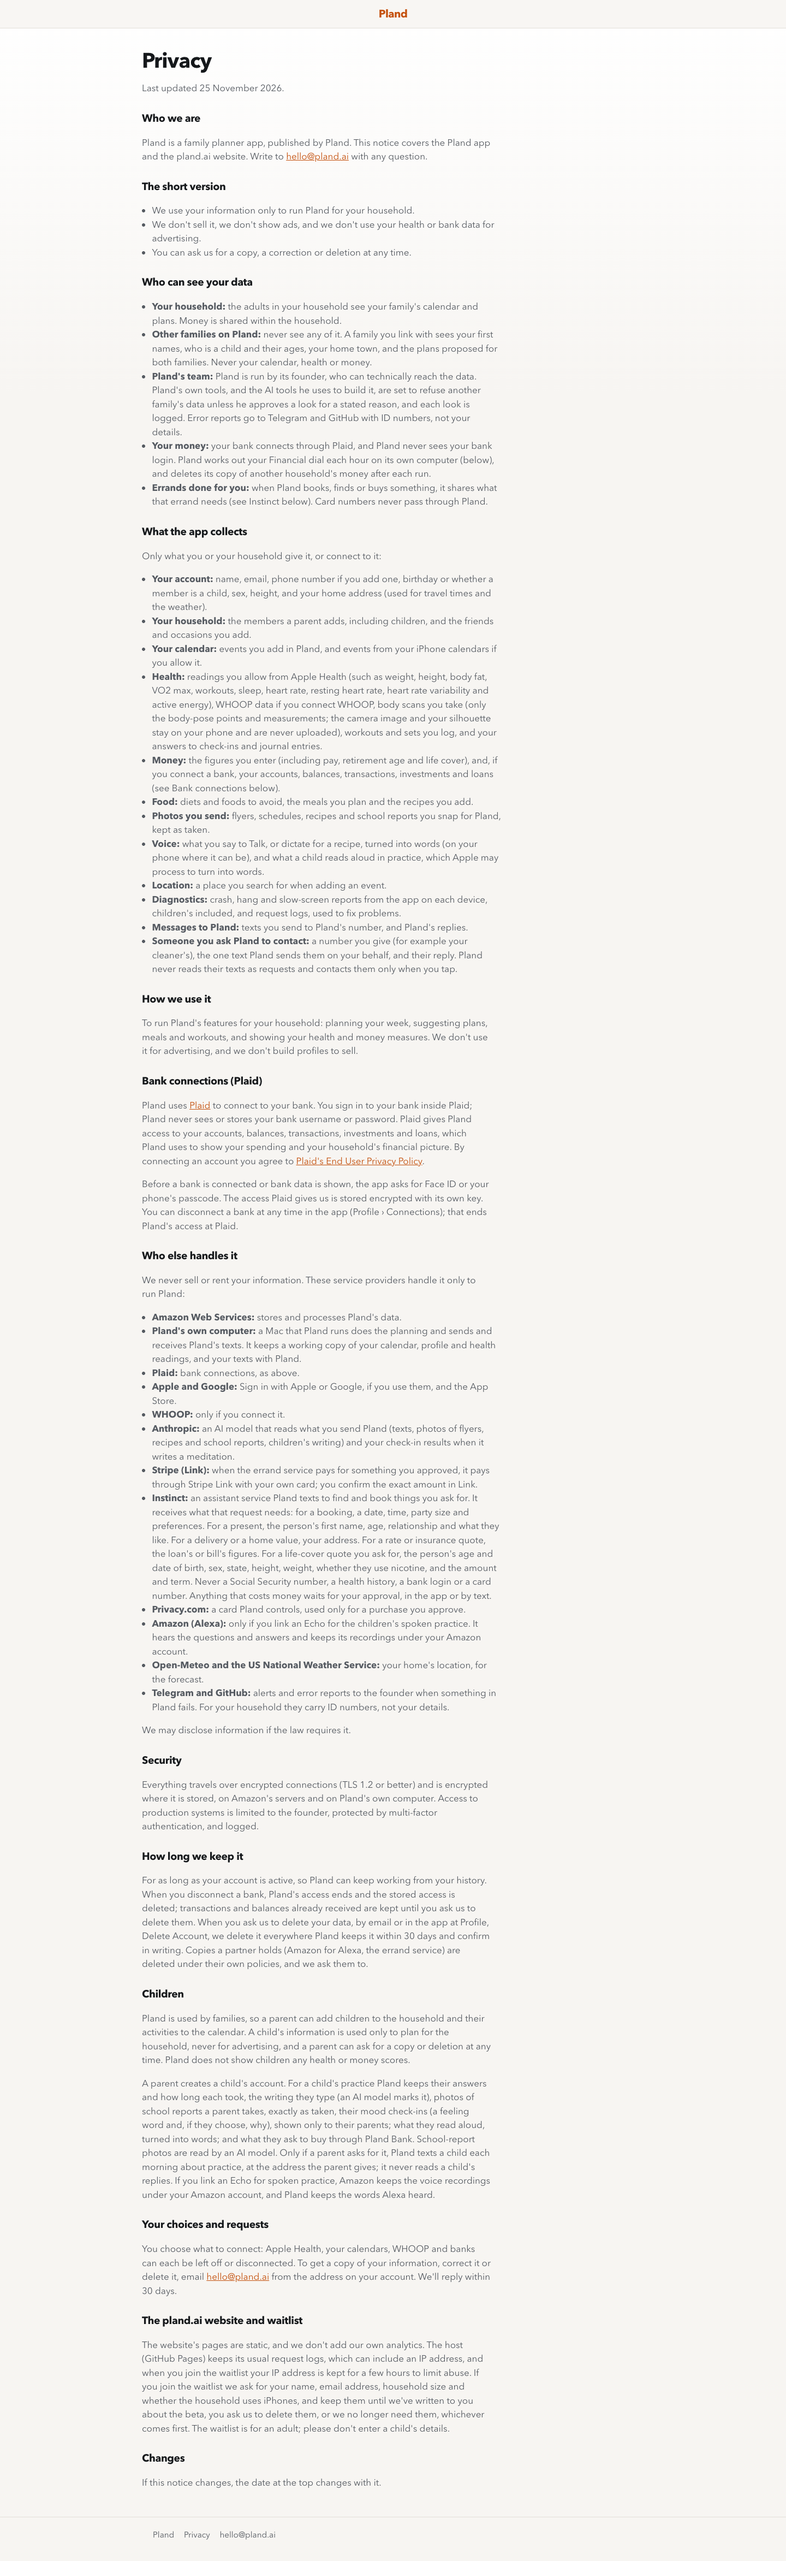
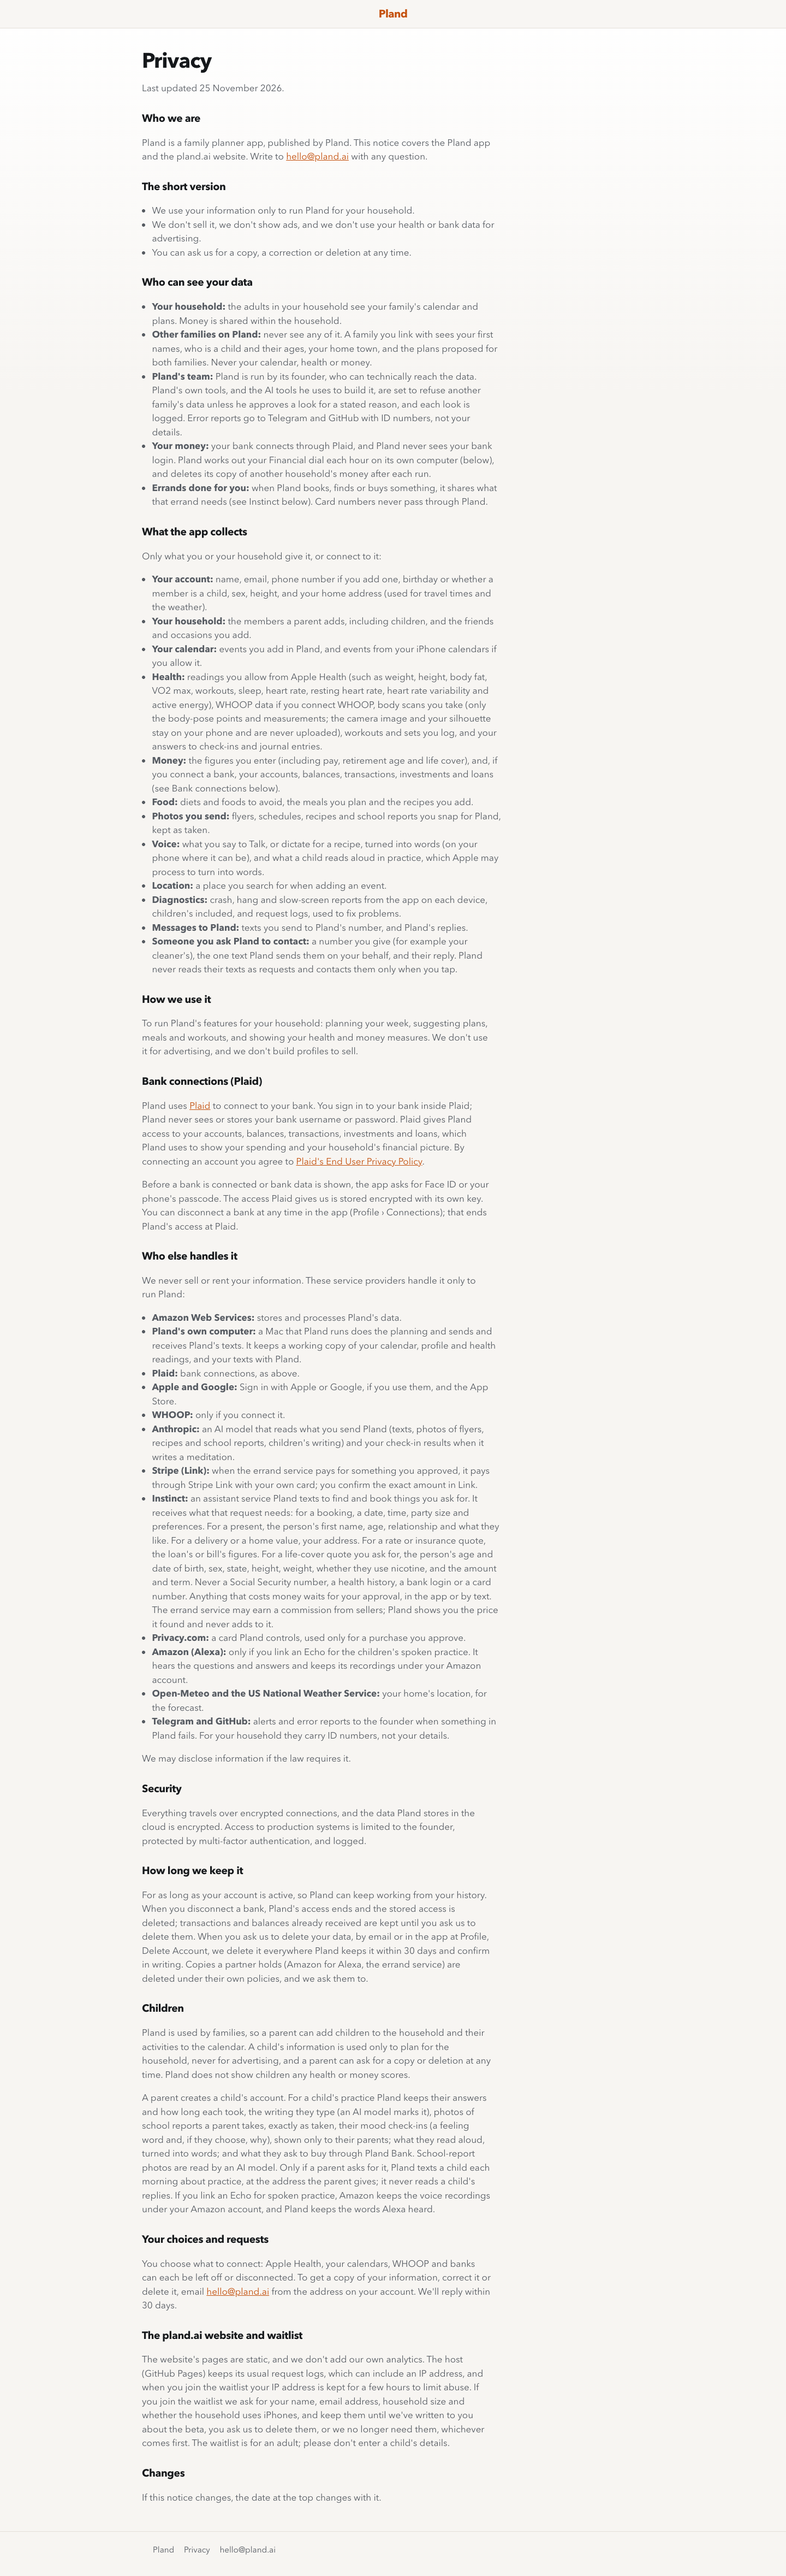
Privacy: encryption stated simply and truly (Will: the earlier wording was too specific).
Claude-Session: https://claude.ai/code/session_01MYq6gFT1vKbrEMVEhcArjc

Changed region(s): [[0.1875, 0.0311, 0.625, 0.965]]

diff --git a/privacy/index.html b/privacy/index.html
@@ -86,7 +86,7 @@
     <p>We may disclose information if the law requires it.</p>
 
     <h2>Security</h2>
-    <p>Everything travels over encrypted connections (TLS 1.2 or better) and is encrypted where it is stored, on Amazon's servers and on Pland's own computer. Access to production systems is limited to the founder, protected by multi-factor authentication, and logged.</p>
+    <p>Everything travels over encrypted connections, and the data Pland stores in the cloud is encrypted. Access to production systems is limited to the founder, protected by multi-factor authentication, and logged.</p>
 
     <h2>How long we keep it</h2>
     <p>For as long as your account is active, so Pland can keep working from your history. When you disconnect a bank, Pland's access ends and the stored access is deleted; transactions and balances already received are kept until you ask us to delete them. When you ask us to delete your data, by email or in the app at Profile, Delete Account, we delete it everywhere Pland keeps it within 30 days and confirm in writing. Copies a partner holds (Amazon for Alexa, the errand service) are deleted under their own policies, and we ask them to.</p>
